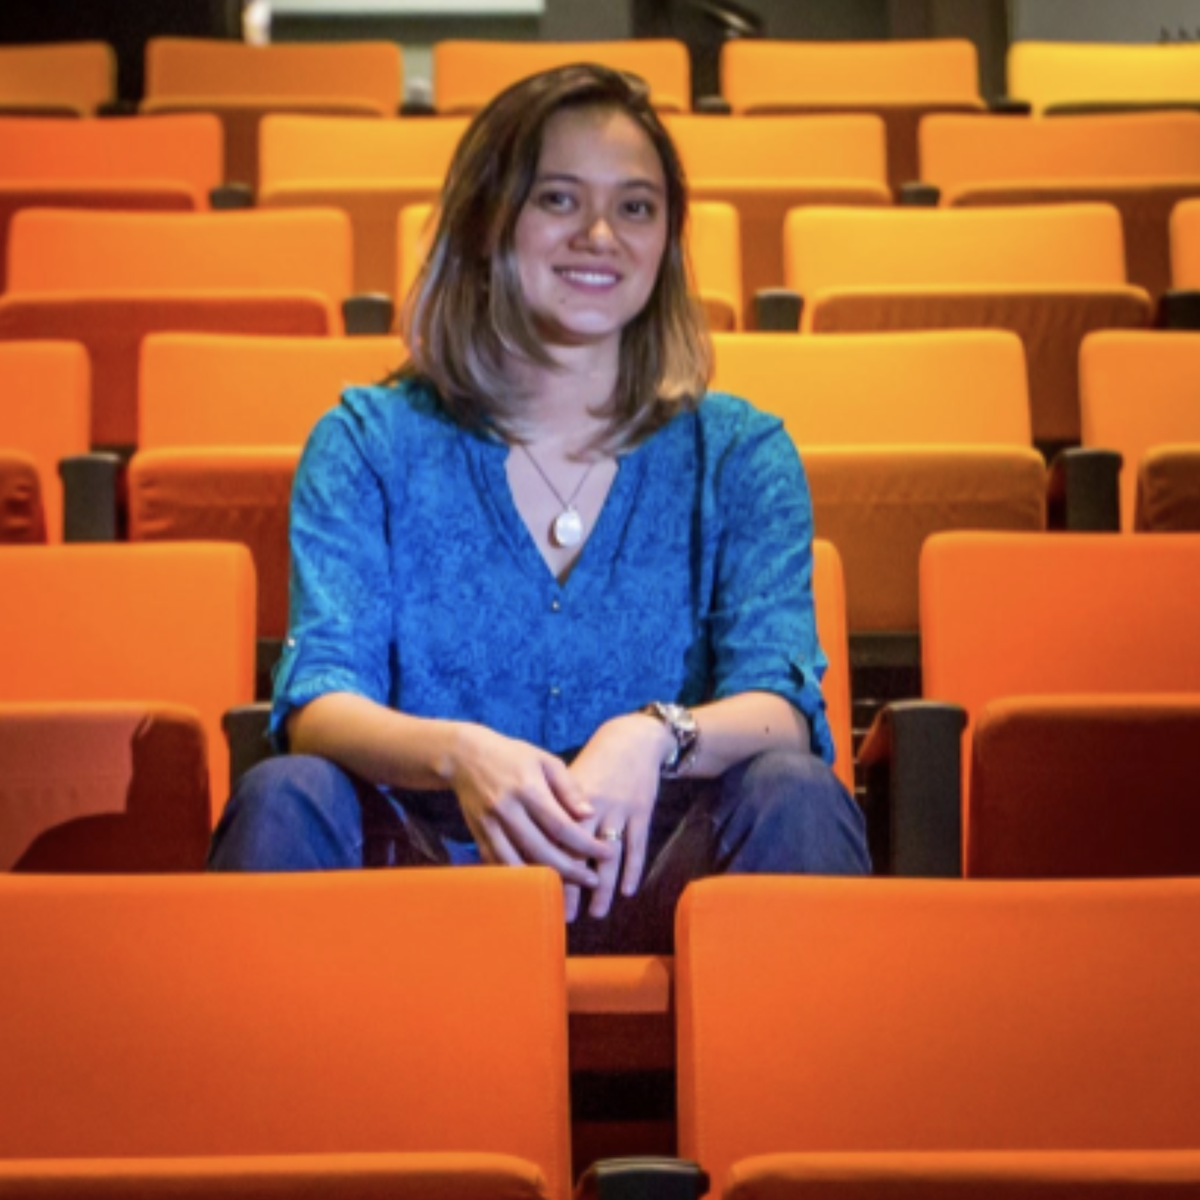
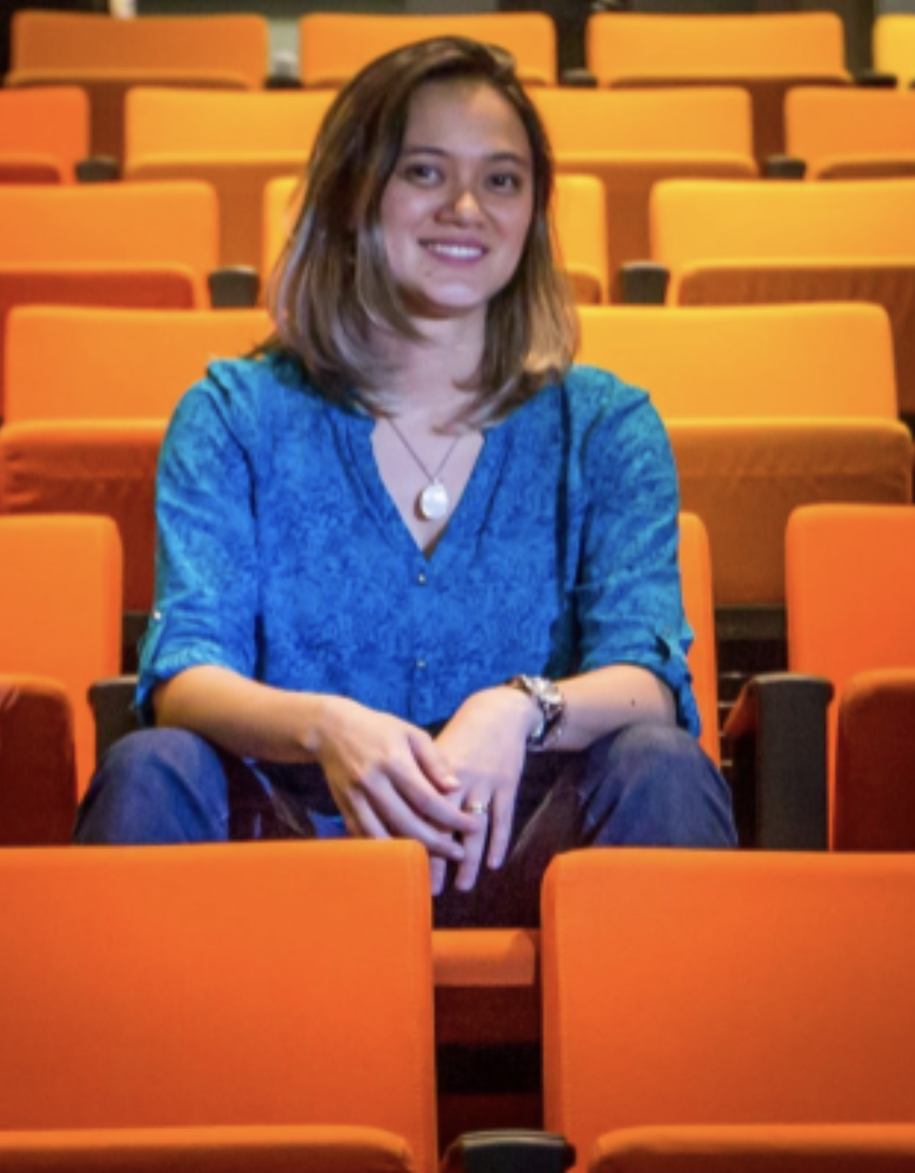
mentors updated

diff --git a/packages/landing-gatsby/src/containers/Charity/MentorSection/index.js b/packages/landing-gatsby/src/containers/Charity/MentorSection/index.js
@@ -14,21 +14,35 @@ const MentorSection = () => {
         mentorData {
           edmar {
             childImageSharp {
-              fluid(quality: 90) {
+              fluid(maxWidth: 700) {
                 ...GatsbyImageSharpFluid
               }
             }
           }
           erica {
             childImageSharp {
-              fluid(quality: 90) {
+              fluid(maxWidth: 700) {
                 ...GatsbyImageSharpFluid
               }
             }
           }
           ricardo {
             childImageSharp {
-              fluid(quality: 90) {
+              fluid(maxWidth: 700) {
+                ...GatsbyImageSharpFluid
+              }
+            }
+          }
+          vinicius {
+            childImageSharp {
+              fluid(maxWidth: 700) {
+                ...GatsbyImageSharpFluid
+              }
+            }
+          }
+          ivan {
+            childImageSharp {
+              fluid(maxWidth: 700) {
                 ...GatsbyImageSharpFluid
               }
             }
@@ -38,7 +52,7 @@ const MentorSection = () => {
     }
   `);
 
-  const { erica, edmar, ricardo } = data.charityJson.mentorData;
+  const { erica, edmar, ricardo, vinicius, ivan } = data.charityJson.mentorData;
 
   return (
     <>
@@ -81,6 +95,32 @@ const MentorSection = () => {
               <div className="content">
                 <h2>Erica Isomura</h2>
                 <Text content='Erica Isomura é sócia da Corall, consultora e coach sistêmica com mais de 15 anos de experiência em estratégia e gestão com pessoas, especialista em desenvolvimento humano e organizacional, mudança cultural, desenvolvimento de liderança e times. Trabalha com implantação e cocriação de modelos alternativos de gestão, tais como: empresas horizontais sem chefes, autogeridas em redes e flats em contextos tecnológicos e criativos. Doutoranda em psicologia social, pela Universidade John F. Kennedy, especialista em estratégia e gestão de pessoas pela Fundação Getúlio Vargas, psicóloga, Executive & Professional Coach certificada pela Behavioural Coach Institute e International Coaching Council, facilitadora de grupos QUEST e mentora pelo CAC - Center for Advanced Coach e consteladora sistêmica pelo Instituto Koziner. Professora universitária e pesquisadora da espiritualidade organizacional e das relações de trabalho do futuro.' />
+              </div>
+            </ContentWrapper>
+          </Panel>
+          <Panel title={<Text content='Vinicius Oyama'/>} >
+            <ContentWrapper>
+              <Fade>
+                <div className="image">
+                  <Image fluid={vinicius.childImageSharp.fluid} alt="Vinicius Oyama"/>
+                </div>
+              </Fade>
+              <div className="content">
+                <h2>Vinicius Oyama</h2>
+                <Text content='Fundador da Codus, consultoria de produtos digitais, começou a empreender com 22 anos no último ano da faculdade. Vinicius passou pelo ciclo completo de uma empresa bem sucedida: tirou do papel seu sonho concebido na sala de casa, passou pela consolidação, pelo crescimento e, fechando o ciclo, passou pela aquisição de sua empresa. Aficcionado por tecnologia e muito curioso, não só entendendo, mas participando ativamente no impacto que ela pode gerar nas pessoas e na sociedade, formou iniciativas de ensino e mentorias dentro da própria empresa, proporcionando valiosos aprendizados a muitas pessoas que por lá passaram. Aprender, colaborar, criar e se desafiar são valores que sempre nortearam suas ações. Assim, a IndigoHive se conecta enquanto oportunidade para que ele possa reafirmar todos esses valores, utilizar sua experiência para ajudar outras pessoas e também aprender muito nessa jornada!' />
+              </div>
+            </ContentWrapper>
+          </Panel>
+          <Panel title={<Text content='Rafael Garcia'/>} >
+            <ContentWrapper>
+              <Fade>
+                <div className="image">
+                  <Image fluid={ivan.childImageSharp.fluid} alt="Rafael Garcia"/>
+                </div>
+              </Fade>
+              <div className="content">
+                <h2>Rafael Garcia</h2>
+                <Text content='Engenheiro de Computação pela Poli-USP, começou a empreender durante a graduação em 2006, aos 19 anos e não parou. Casado e pai de uma menina, é co-fundador da Infosimples, da Neuronio.ai e de outras startups que ficaram pelo caminho. Acredita que o empreendedorismo é a forma mais eficiente de transformar positivamente a própria vida e além de contribuir para sociedade e, em última instância, para o Brasil. Desde 2014, é voluntário em cursos de empreendedorismo e computação na Poli-USP, que fomenta a formação de futuros engenheiros e empreendedores. Durante a sua jornada, teve a felicidade encontrar mentores que acabaram virando amigos e tiveram papel importante na sua evolução profissional e pessoal. Por isso, acredita muito na Indigo Hive e no quanto elas podem ajudar outros a explorarem seu potencial e serem agentes de transformação.' />
               </div>
             </ContentWrapper>
           </Panel>

diff --git a/packages/landing-gatsby/src/containers/Charity/MentorSection/mentorSection.style.js b/packages/landing-gatsby/src/containers/Charity/MentorSection/mentorSection.style.js
@@ -195,15 +195,11 @@ export const ContentWrapper = styled.div`
   }
 
   .content {
-    width: 650px;
-    padding: 80px 86px 77px;
+    width: 700px;
+    padding: 56px 40px;
     background-color: ${themeGet('colors.primary', '#FCF22B')};
     @media only screen and (max-width: 1440px) {
-      width: 500px;
-      padding: 70px 65px;
-    }
-    @media only screen and (max-width: 1360px) {
-      width: 432px;
+      width: 700px;
       padding: 56px 50px;
     }
     @media only screen and (max-width: 991px) {
